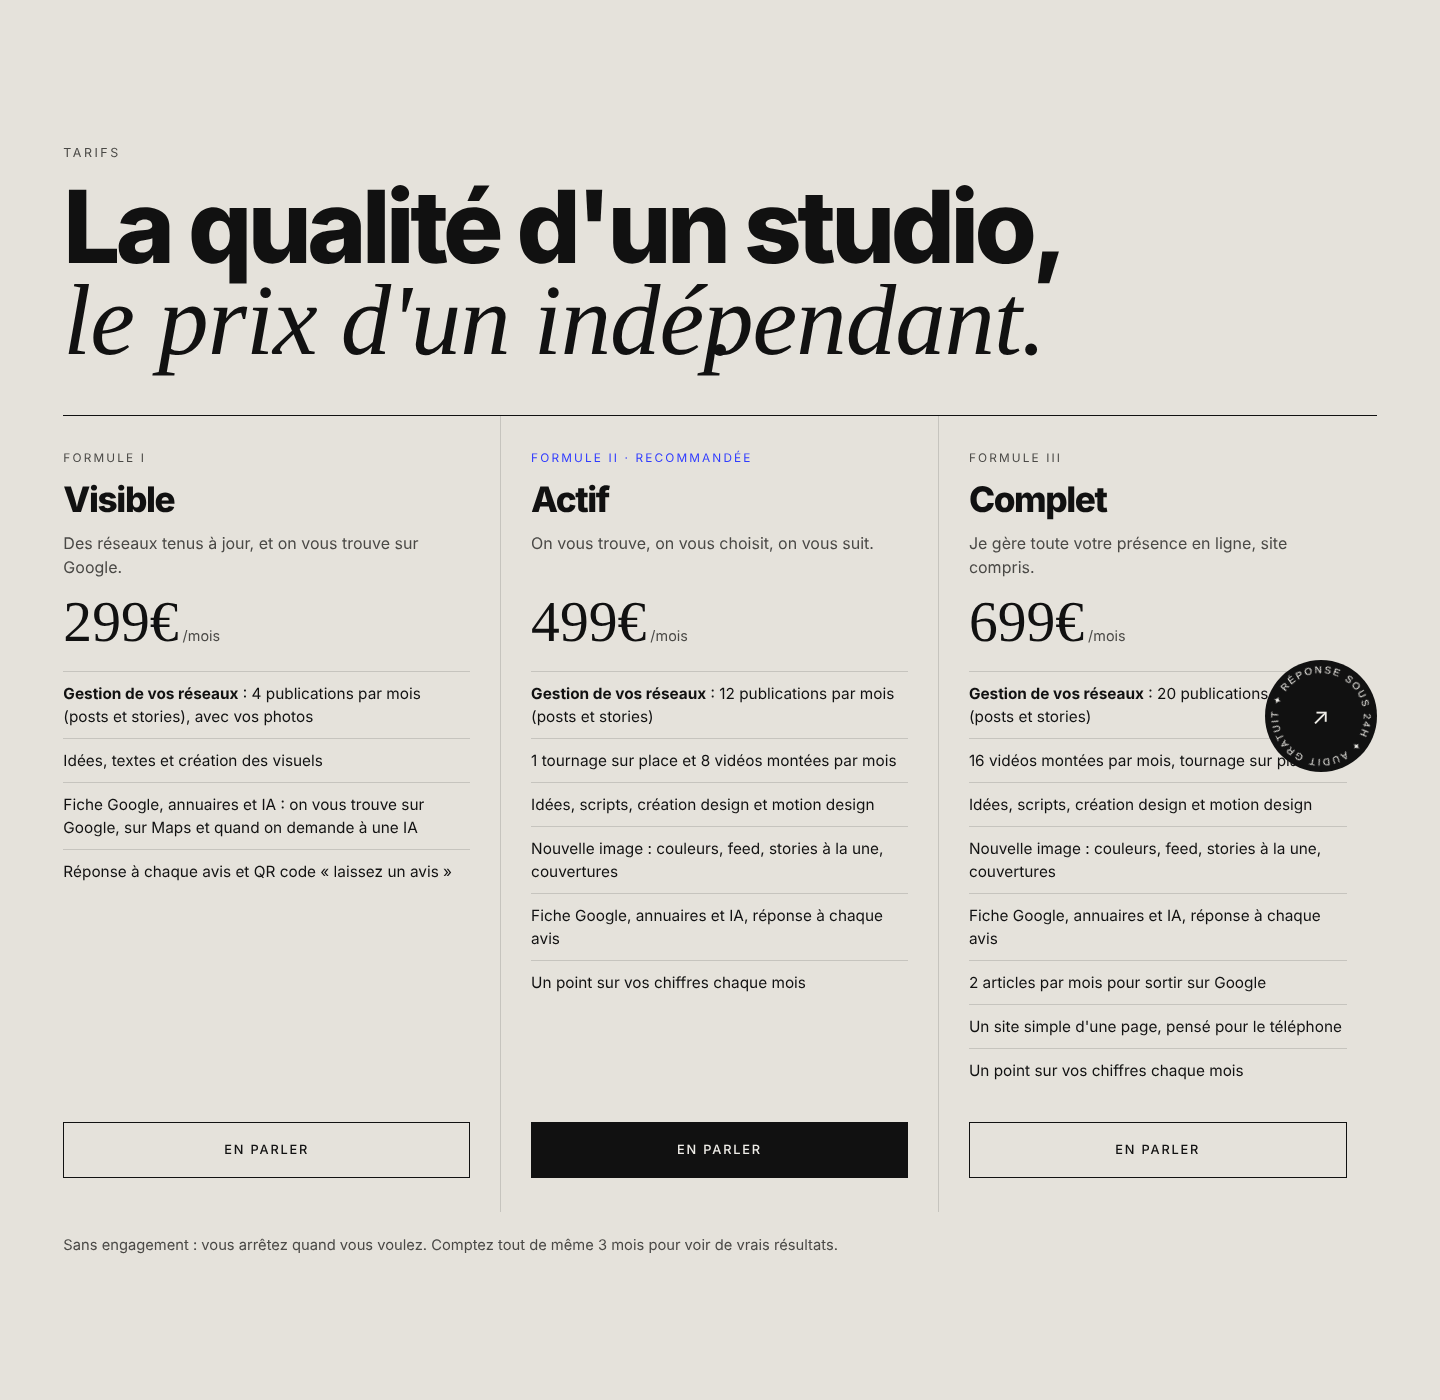
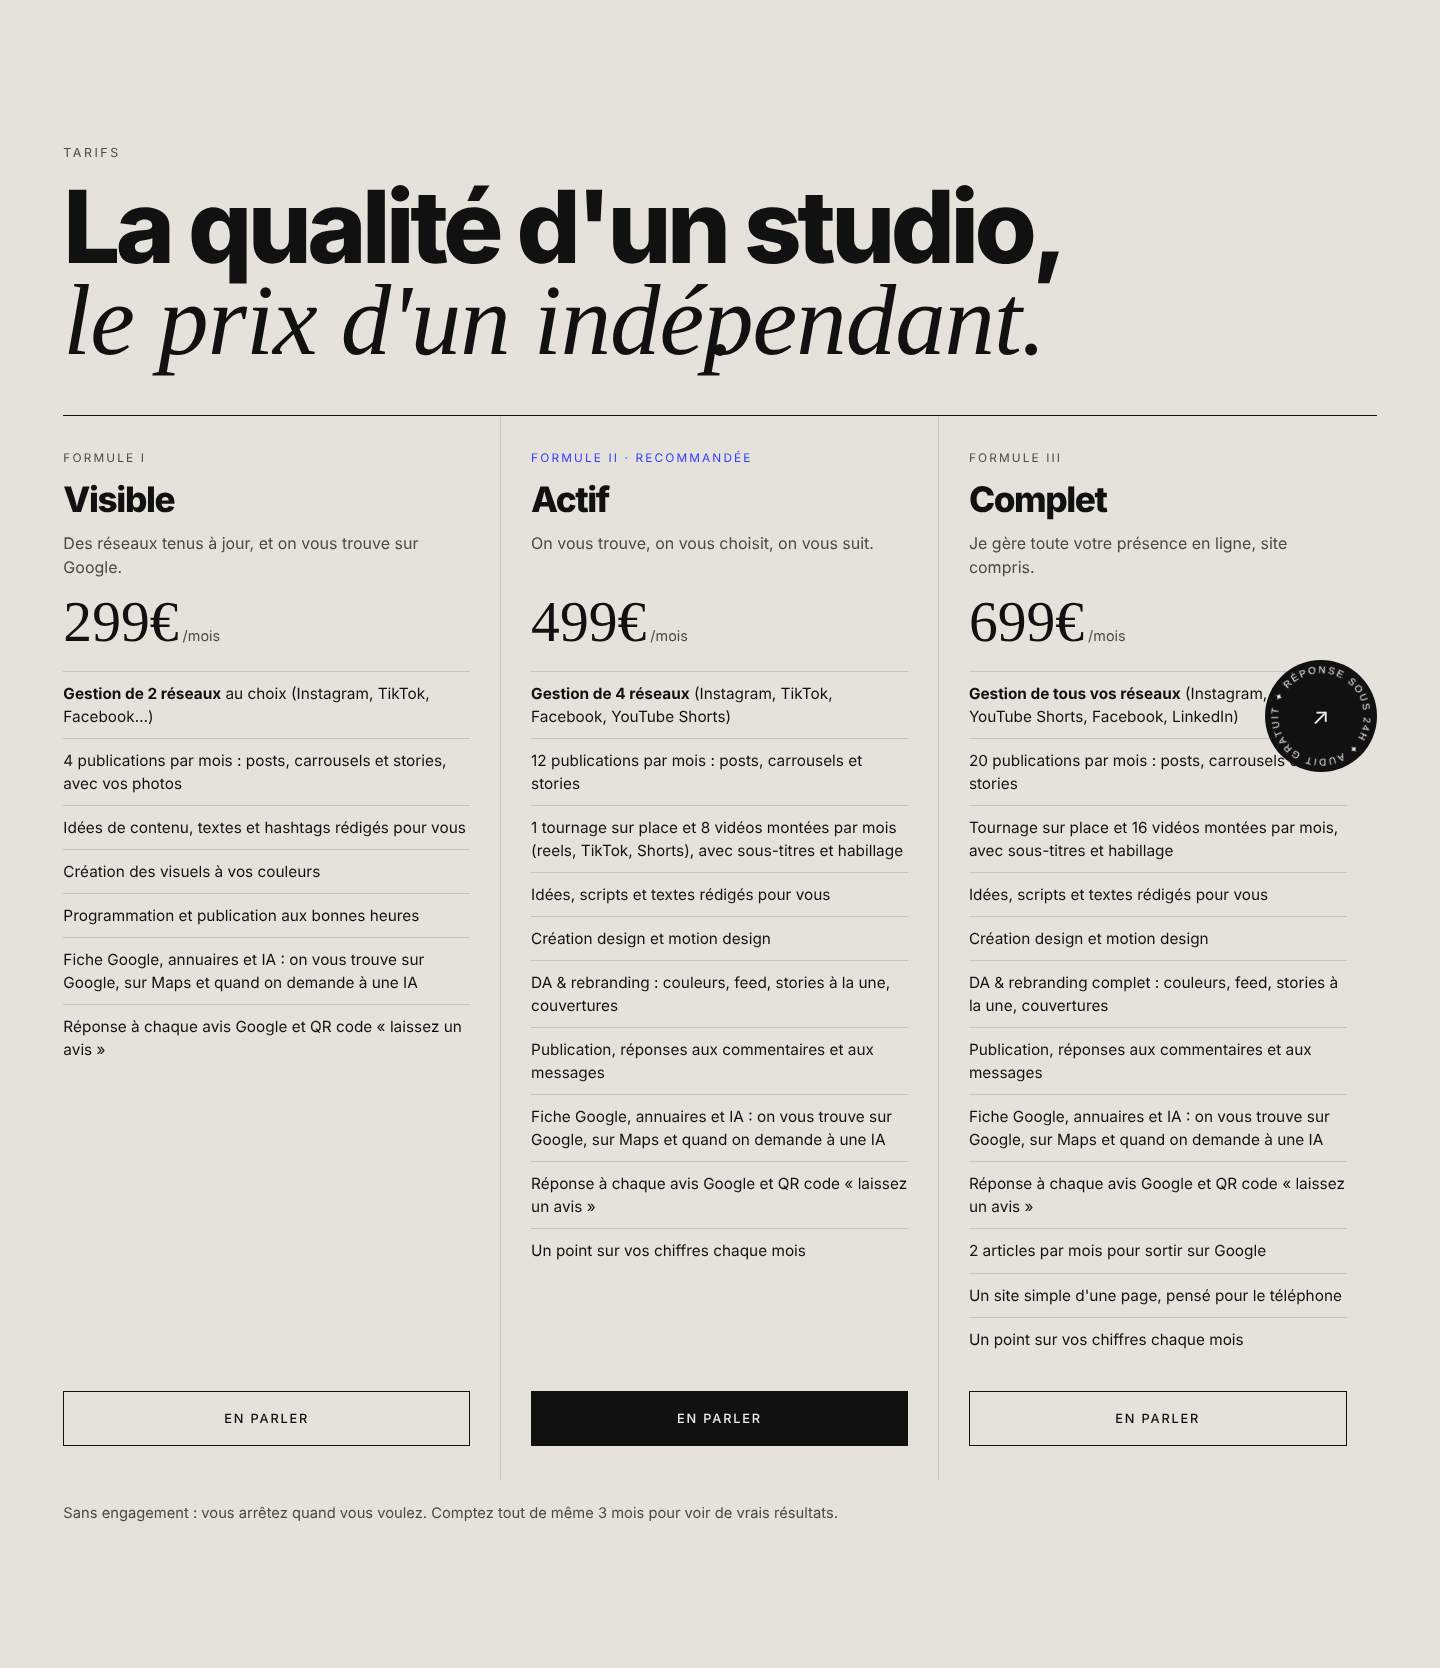
Proposition : formules détaillées (2 réseaux, 4 réseaux, tous les réseaux)
Claude-Session: https://claude.ai/code/session_018tAZYAxUmFNbKmCfUcRUAq

diff --git a/index.html b/index.html
@@ -861,9 +861,9 @@
     <div class="kick">Tarifs</div>
     <h2 class="h2 rv" style="margin-top:18px">La qualité d'un studio,<br><span class="it">le prix d'un indépendant.</span></h2>
     <div class="plans">
-      <div class="plan"><span class="tag">Formule I</span><h3>Visible</h3><p class="for">Des réseaux tenus à jour, et on vous trouve sur Google.</p><div class="price">299€<small> /mois</small></div><ul><li><b>Gestion de vos réseaux</b> : 4 publications par mois (posts et stories), avec vos photos</li><li>Idées, textes et création des visuels</li><li>Fiche Google, annuaires et IA : on vous trouve sur Google, sur Maps et quand on demande à une IA</li><li>Réponse à chaque avis et QR code « laissez un avis »</li></ul><a class="btn line" href="#contact" data-wa>En parler</a></div>
-      <div class="plan hot"><span class="tag">Formule II · Recommandée</span><h3>Actif</h3><p class="for">On vous trouve, on vous choisit, on vous suit.</p><div class="price">499€<small> /mois</small></div><ul><li><b>Gestion de vos réseaux</b> : 12 publications par mois (posts et stories)</li><li>1 tournage sur place et 8 vidéos montées par mois</li><li>Idées, scripts, création design et motion design</li><li>Nouvelle image : couleurs, feed, stories à la une, couvertures</li><li>Fiche Google, annuaires et IA, réponse à chaque avis</li><li>Un point sur vos chiffres chaque mois</li></ul><a class="btn" href="#contact" data-wa>En parler</a></div>
-      <div class="plan"><span class="tag">Formule III</span><h3>Complet</h3><p class="for">Je gère toute votre présence en ligne, site compris.</p><div class="price">699€<small> /mois</small></div><ul><li><b>Gestion de vos réseaux</b> : 20 publications par mois (posts et stories)</li><li>16 vidéos montées par mois, tournage sur place</li><li>Idées, scripts, création design et motion design</li><li>Nouvelle image : couleurs, feed, stories à la une, couvertures</li><li>Fiche Google, annuaires et IA, réponse à chaque avis</li><li>2 articles par mois pour sortir sur Google</li><li>Un site simple d'une page, pensé pour le téléphone</li><li>Un point sur vos chiffres chaque mois</li></ul><a class="btn line" href="#contact" data-wa>En parler</a></div>
+      <div class="plan"><span class="tag">Formule I</span><h3>Visible</h3><p class="for">Des réseaux tenus à jour, et on vous trouve sur Google.</p><div class="price">299€<small> /mois</small></div><ul><li><b>Gestion de 2 réseaux</b> au choix (Instagram, TikTok, Facebook…)</li><li>4 publications par mois : posts, carrousels et stories, avec vos photos</li><li>Idées de contenu, textes et hashtags rédigés pour vous</li><li>Création des visuels à vos couleurs</li><li>Programmation et publication aux bonnes heures</li><li>Fiche Google, annuaires et IA : on vous trouve sur Google, sur Maps et quand on demande à une IA</li><li>Réponse à chaque avis Google et QR code « laissez un avis »</li></ul><a class="btn line" href="#contact" data-wa>En parler</a></div>
+      <div class="plan hot"><span class="tag">Formule II · Recommandée</span><h3>Actif</h3><p class="for">On vous trouve, on vous choisit, on vous suit.</p><div class="price">499€<small> /mois</small></div><ul><li><b>Gestion de 4 réseaux</b> (Instagram, TikTok, Facebook, YouTube Shorts)</li><li>12 publications par mois : posts, carrousels et stories</li><li>1 tournage sur place et 8 vidéos montées par mois (reels, TikTok, Shorts), avec sous-titres et habillage</li><li>Idées, scripts et textes rédigés pour vous</li><li>Création design et motion design</li><li>DA &amp; rebranding : couleurs, feed, stories à la une, couvertures</li><li>Publication, réponses aux commentaires et aux messages</li><li>Fiche Google, annuaires et IA : on vous trouve sur Google, sur Maps et quand on demande à une IA</li><li>Réponse à chaque avis Google et QR code « laissez un avis »</li><li>Un point sur vos chiffres chaque mois</li></ul><a class="btn" href="#contact" data-wa>En parler</a></div>
+      <div class="plan"><span class="tag">Formule III</span><h3>Complet</h3><p class="for">Je gère toute votre présence en ligne, site compris.</p><div class="price">699€<small> /mois</small></div><ul><li><b>Gestion de tous vos réseaux</b> (Instagram, TikTok, YouTube Shorts, Facebook, LinkedIn)</li><li>20 publications par mois : posts, carrousels et stories</li><li>Tournage sur place et 16 vidéos montées par mois, avec sous-titres et habillage</li><li>Idées, scripts et textes rédigés pour vous</li><li>Création design et motion design</li><li>DA &amp; rebranding complet : couleurs, feed, stories à la une, couvertures</li><li>Publication, réponses aux commentaires et aux messages</li><li>Fiche Google, annuaires et IA : on vous trouve sur Google, sur Maps et quand on demande à une IA</li><li>Réponse à chaque avis Google et QR code « laissez un avis »</li><li>2 articles par mois pour sortir sur Google</li><li>Un site simple d'une page, pensé pour le téléphone</li><li>Un point sur vos chiffres chaque mois</li></ul><a class="btn line" href="#contact" data-wa>En parler</a></div>
     </div>
     <p class="p-note">Sans engagement : vous arrêtez quand vous voulez. Comptez tout de même 3 mois pour voir de vrais résultats.</p>
   </div>
